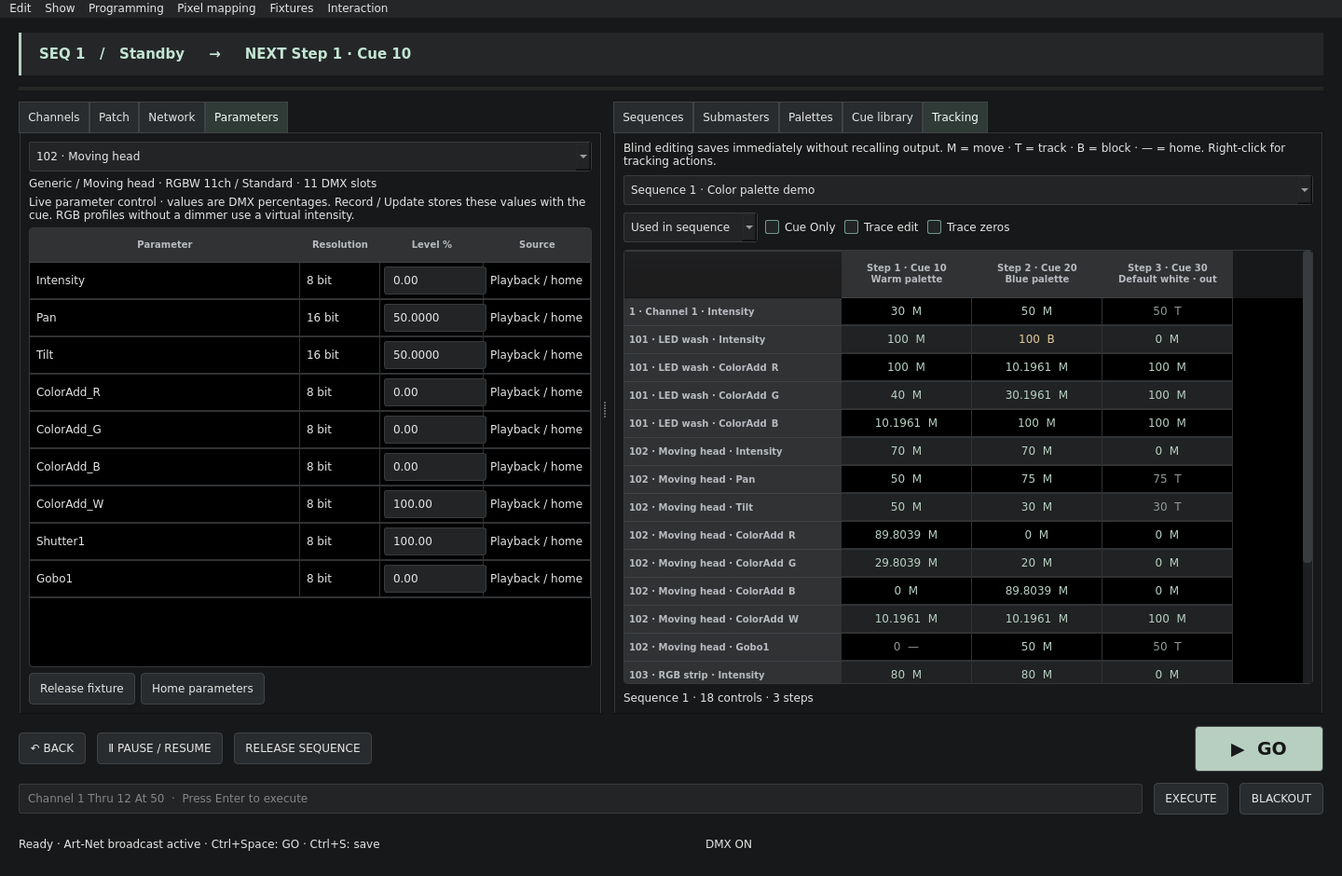
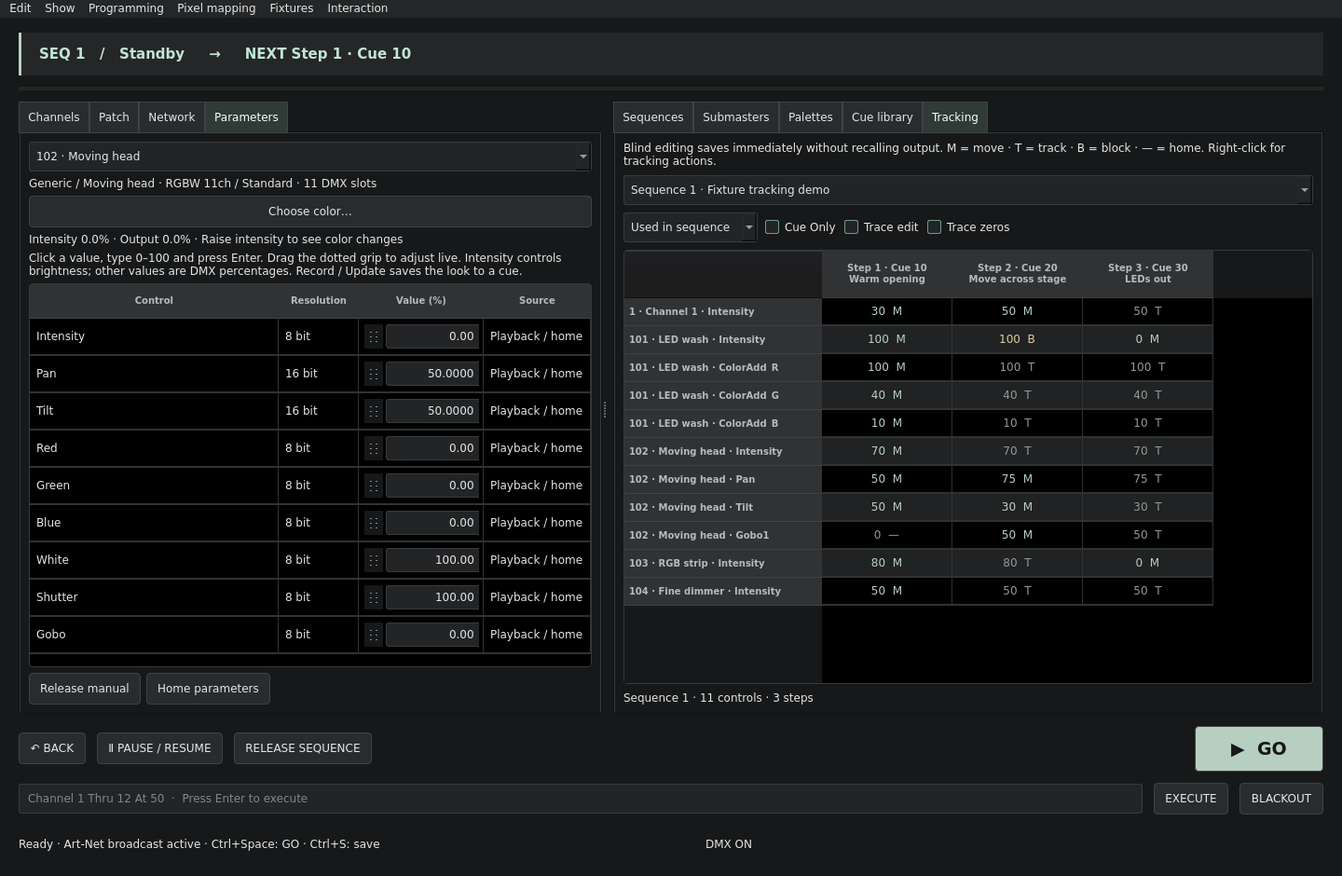
Fix Parameters text editing and add explicit value drag grips

diff --git a/src/parameterpanel.cpp b/src/parameterpanel.cpp
@@ -1,17 +1,66 @@
 #include "parameterpanel.h"
-#include "numberdrag.h"
 #include "fixturecolor.h"
 using namespace Flame;
+namespace {
+// Let the number field use native focus/text input. The grip alone handles dragging.
+class ParameterGrip : public QWidget {
+    QDoubleSpinBox *field;
+    bool pressed = false;
+    double previous = 0, accumulated = 0;
+    void adjust(QMouseEvent *event) {
+        const double factor = event->modifiers() & Qt::ShiftModifier ? 0.1 : event->modifiers() & Qt::ControlModifier ? 10. : 1.;
+        const double position = event->globalPosition().x();
+        accumulated = qBound(field->minimum(), accumulated + (position - previous) * field->singleStep() * factor, field->maximum());
+        previous = position; field->setValue(accumulated); event->accept();
+    }
+  public:
+    ParameterGrip(QDoubleSpinBox *field, QWidget *parent) : QWidget(parent), field(field) {
+        setFixedWidth(20); setCursor(Qt::SizeHorCursor); setFocusPolicy(Qt::NoFocus);
+        setAccessibleName("Drag parameter value");
+        setStatusTip("Drag sideways to adjust the value. Shift: fine; Ctrl/Command: coarse. Click the number to type, then press Enter.");
+    }
+  protected:
+    void paintEvent(QPaintEvent *) override {
+        QPainter painter(this); painter.setPen(Qt::NoPen); painter.setBrush(palette().color(QPalette::Text));
+        painter.setOpacity(0.55);
+        for (int x : {7, 13}) for (int dy : {-5, 0, 5}) painter.drawEllipse(QPointF(x, height() / 2. + dy), 1., 1.);
+    }
+    void mousePressEvent(QMouseEvent *event) override {
+        if (event->button() != Qt::LeftButton || !field->isEnabled() || field->isReadOnly()) { event->ignore(); return; }
+        field->interpretText(); field->clearFocus();
+        pressed = true; previous = event->globalPosition().x(); accumulated = field->value(); event->accept();
+    }
+    void mouseMoveEvent(QMouseEvent *event) override {
+        if (!pressed || !(event->buttons() & Qt::LeftButton)) { pressed = false; event->ignore(); return; }
+        adjust(event);
+    }
+    void mouseReleaseEvent(QMouseEvent *event) override {
+        if (event->button() != Qt::LeftButton || !pressed) { event->ignore(); return; }
+        adjust(event); pressed = false; event->accept();
+    }
+    bool event(QEvent *event) override {
+        if (event->type() == QEvent::UngrabMouse || event->type() == QEvent::WindowDeactivate || event->type() == QEvent::Hide) pressed = false;
+        return QWidget::event(event);
+    }
+};
+QString parameterName(const FixtureParameter &parameter) {
+    if (parameter.intensity) return parameter.cell.isEmpty() ? "Intensity" : "Cell intensity";
+    static const QMap<QString, QString> names{{"ColorAdd_R", "Red"}, {"ColorAdd_G", "Green"}, {"ColorAdd_B", "Blue"}, {"ColorAdd_W", "White"},
+        {"ColorAdd_WW", "Warm white"}, {"ColorAdd_CW", "Cool white"}, {"ColorAdd_A", "Amber"}, {"ColorAdd_UV", "UV"},
+        {"ColorSub_C", "Cyan"}, {"ColorSub_M", "Magenta"}, {"ColorSub_Y", "Yellow"}, {"Shutter1", "Shutter"}, {"Gobo1", "Gobo"}, {"Focus1", "Focus"}};
+    return names.value(parameter.attribute, parameter.attribute);
+}
+}
 ParameterPanel::ParameterPanel(Engine &e, std::function<void()> onLiveChange, QWidget *parent)
     : QWidget(parent), engine(e), onLiveChange(std::move(onLiveChange)) {
     auto layout = new QVBoxLayout(this); channel = new QComboBox; channel->setObjectName("parameterChannel"); layout->addWidget(channel);
-    description = new QLabel; description->setWordWrap(true); layout->addWidget(description);
+    description = new QLabel; description->setTextFormat(Qt::PlainText); description->setWordWrap(true); layout->addWidget(description);
     auto scope = new QHBoxLayout;
     cell = new QComboBox; cell->setObjectName("parameterCell"); scope->addWidget(cell, 1);
     color = new QPushButton("Choose color…"); color->setObjectName("parameterCellColor"); scope->addWidget(color); layout->addLayout(scope);
     cell->setStatusTip("Select the whole fixture, its master, or an individual numbered cell/group.");
     color->setStatusTip("Choose a color for the selected scope, preserving its intensity. Cancel restores previous values.");
-    masterLevel = new QLabel; masterLevel->setObjectName("parameterMasterLevel"); layout->addWidget(masterLevel);
+    masterLevel = new QLabel; masterLevel->setObjectName("parameterMasterLevel"); masterLevel->setTextFormat(Qt::PlainText); masterLevel->setWordWrap(true); layout->addWidget(masterLevel);
     connect(cell, &QComboBox::currentIndexChanged, this, [this] { populate(shown); });
     connect(color, &QPushButton::clicked, this, [this] {
         const QString part = cell->currentData().toString(); const auto controls = engine.colorControls(shown, part);
@@ -33,13 +82,16 @@ ParameterPanel::ParameterPanel(Engine &e, std::function<void()> onLiveChange, QW
         }
         this->onLiveChange(); refresh();
     });
-    auto note = new QLabel("Live parameter control · values are DMX percentages. Record / Update stores these values with the cue. RGB profiles without a dimmer use a virtual intensity."); note->setWordWrap(true); layout->addWidget(note);
-    table = new QTableWidget(0, 4); table->setObjectName("parameterTable"); table->setHorizontalHeaderLabels({"Parameter", "Resolution", "Level %", "Source"});
+    auto note = new QLabel("Click a value, type 0–100 and press Enter. Drag the dotted grip to adjust live. Intensity controls brightness; other values are DMX percentages. Record / Update saves the look to a cue."); note->setWordWrap(true); layout->addWidget(note);
+    table = new QTableWidget(0, 4); table->setObjectName("parameterTable"); table->setHorizontalHeaderLabels({"Control", "Resolution", "Value (%)", "Source"});
+    table->setEditTriggers(QAbstractItemView::NoEditTriggers); table->setSelectionBehavior(QAbstractItemView::SelectRows);
+    table->setStyleSheet("QWidget#parameterValueCell{background:transparent;} QDoubleSpinBox{padding:3px 6px;min-height:0px;} QDoubleSpinBox QLineEdit{padding:0px;margin:0px;border:0px;background:transparent;}");
     table->verticalHeader()->hide(); table->verticalHeader()->setDefaultSectionSize(40);
     table->horizontalHeader()->setSectionResizeMode(QHeaderView::ResizeToContents); table->horizontalHeader()->setSectionResizeMode(0, QHeaderView::Stretch);
     layout->addWidget(table, 1); auto actions = new QHBoxLayout;
-    auto release = new QPushButton("Release fixture"); auto home = new QPushButton("Home parameters"); actions->addWidget(release); actions->addWidget(home); actions->addStretch(); layout->addLayout(actions);
-    release->setStatusTip("Release this fixture's manual values, retaining captured controls."); home->setStatusTip("Set non-intensity parameters to their GDTF defaults in manual control.");
+    auto release = new QPushButton("Release manual"); auto home = new QPushButton("Home parameters"); actions->addWidget(release); actions->addWidget(home); actions->addStretch(); layout->addLayout(actions);
+    release->setObjectName("releaseFixtureParameters");
+    release->setStatusTip("Release this fixture's manual values, retaining captured controls."); home->setStatusTip("Restore color, position, beam and cell controls to home, keeping master intensity.");
     connect(channel, &QComboBox::currentIndexChanged, this, [this] { populate(channel->currentData().toInt()); });
     connect(release, &QPushButton::clicked, this, [this] {
         for (int key : engine.controlIds()) if (engine.channelForControl(key) == shown && !engine.captured.contains(key)) engine.manual.remove(key);
@@ -69,7 +121,7 @@ void ParameterPanel::populate(int id) {
         cell->setCurrentIndex(qMax(0, cell->findData(previous)));
     }
     cell->setVisible(!parts.isEmpty());
-    masterLevel->setVisible(!parts.isEmpty());
+    masterLevel->setVisible(true);
     const QString part = cell->currentData().toString(); color->setEnabled(engine.colorControls(id, part).available());
     table->setRowCount(0); QList<int> keys;
     if (part == "*" || part.isEmpty()) keys << id;
@@ -78,27 +130,48 @@ void ParameterPanel::populate(int id) {
     for (int key : keys) {
         int row = table->rowCount(); table->insertRow(row); QString resolution = "Virtual"; int decimals = 2;
         for (int i = 0; i < mode.parameters.size(); ++i) if (engine.parameterKey(id, i) == key) { resolution = mode.parameters[i].offsets.isEmpty() ? "Virtual" : QString::number(mode.parameters[i].offsets.size() * 8) + " bit"; decimals = qMax(2, int(mode.parameters[i].offsets.size()) * 2); }
-        QString text = "Intensity";
+        QString text = parts.isEmpty() ? "Intensity" : "Master intensity";
         if (key < 0) {
             const auto &parameter = mode.parameters[(-qint64(key) - 1) % 512];
-            text = (part == "*" && !parameter.cell.isEmpty() ? parameter.cell + " / " : QString()) + parameter.attribute;
+            text = (part == "*" && !parameter.cell.isEmpty() ? parameter.cell + " / " : QString()) + parameterName(parameter);
         }
         auto label = new QTableWidgetItem(text); label->setData(Qt::UserRole, key); label->setToolTip(engine.controlLabel(key)); table->setItem(row, 0, label);
         table->setItem(row, 1, new QTableWidgetItem(resolution)); table->setItem(row, 3, new QTableWidgetItem);
         for (int col : {0, 1, 3}) table->item(row, col)->setFlags(Qt::ItemIsEnabled | Qt::ItemIsSelectable);
-        auto value = new QDoubleSpinBox; value->setObjectName(QString("parameterLevel%1").arg(key)); value->setRange(0, 100); value->setDecimals(decimals); value->setSingleStep(0.1); value->setMinimumWidth(110);
-        enableNumberDrag(value); value->setStatusTip(engine.controlLabel(key) + " · drag horizontally, Shift for fine control, click to type"); table->setCellWidget(row, 2, value);
+        auto holder = new QWidget; holder->setObjectName("parameterValueCell");
+        auto valueLayout = new QHBoxLayout(holder); valueLayout->setContentsMargins(2, 2, 2, 2); valueLayout->setSpacing(3);
+        auto value = new QDoubleSpinBox;
+        // Console's global NumberDrag installer must leave these native editors alone.
+        value->setProperty("nativeNumberEditing", true); value->setButtonSymbols(QAbstractSpinBox::NoButtons);
+        value->setObjectName(QString("parameterLevel%1").arg(key)); value->setRange(0, 100); value->setDecimals(decimals); value->setSingleStep(0.1); value->setMinimumWidth(106);
+        value->setKeyboardTracking(false); value->setFocusPolicy(Qt::StrongFocus); value->setAlignment(Qt::AlignRight);
+        value->setAccessibleName(engine.controlLabel(key) + " value, percent");
+        value->setStatusTip(engine.controlLabel(key) + " · click to type 0–100, then press Enter. Drag the dotted grip to adjust live.");
+        auto grip = new ParameterGrip(value, holder); grip->setObjectName(QString("parameterGrip%1").arg(key));
+        valueLayout->addWidget(grip); valueLayout->addWidget(value, 1); table->setCellWidget(row, 2, holder);
         connect(value, &QDoubleSpinBox::valueChanged, this, [this, key](double level) { engine.manual[key] = {level, 0}; this->onLiveChange(); refresh(); });
     }
     refresh();
 }
 void ParameterPanel::refresh() {
     if (!isVisible()) return;
-    auto values = engine.output(false, false);
-    masterLevel->setText(QString("Fixture master: %1% · Cell intensities are relative").arg(values.value(shown), 0, 'f', 1));
+    auto values = engine.output(false, false, false);
+    const auto output = engine.output(); QStringList states;
+    if (engine.parked.contains(shown)) states << "Parked";
+    else {
+        if (engine.blackout) states << "Blackout";
+        if (engine.master < 1) states << QString("Grand master %1%").arg(engine.master * 100., 0, 'f', 0);
+        for (const auto &sub : engine.submasters) if (sub.mode == Submaster::Mode::Inhibitive && sub.level < 1 && sub.values.contains(shown))
+            states << QString("Inhibited by Sub %1").arg(sub.number);
+    }
+    if (values.value(shown) == 0 && engine.colorControls(shown).available()) states << "Raise intensity to see color changes";
+    if (!engine.fixtureCells(shown).isEmpty()) states << "Cell intensity is relative to the master";
+    masterLevel->setText(QString("Intensity %1% · Output %2%%3").arg(values.value(shown), 0, 'f', 1).arg(output.value(shown), 0, 'f', 1)
+        .arg(states.isEmpty() ? QString() : " · " + states.join(" · ")));
     for (int row = 0; row < table->rowCount(); ++row) {
-        int key = table->item(row, 0)->data(Qt::UserRole).toInt(); auto spin = qobject_cast<QDoubleSpinBox *>(table->cellWidget(row, 2));
-        if (!spin->hasFocus()) { QSignalBlocker block(spin); spin->setValue(values.value(key, engine.controlDefault(key))); }
+        int key = table->item(row, 0)->data(Qt::UserRole).toInt(); auto spin = table->cellWidget(row, 2)->findChild<QDoubleSpinBox *>();
+        const auto edit = spin->findChild<QLineEdit *>();
+        if (!spin->hasFocus() && (!edit || !edit->hasFocus())) { QSignalBlocker block(spin); spin->setValue(values.value(key, engine.controlDefault(key))); }
         const auto reference = engine.recordedValue(key, values);
         QString source = engine.manual.contains(key) ? "Manual" : "Playback / home";
         if (reference.colorPalette > 0) source = QString("CP %1 · ").arg(reference.colorPalette) + source;

diff --git a/tests/ui_test.cpp b/tests/ui_test.cpp
@@ -30,6 +30,86 @@ class UiTests : public QObject {
         table->customContextMenuRequested(point);
     }
   private slots:
+    void parameterIntensityValueSurvivesInhibitorsAndShowsOutputState() {
+        Engine engine; Submaster sub; sub.mode = Submaster::Mode::Inhibitive; sub.values[1] = 100; sub.level = 0;
+        engine.submasters << sub;
+        ParameterPanel *livePanel = nullptr;
+        ParameterPanel panel(engine, [&] { if (livePanel) livePanel->refresh(); }); livePanel = &panel; panel.show(); panel.refresh();
+        auto intensity = panel.findChild<QDoubleSpinBox *>("parameterLevel1"); QVERIFY(intensity);
+        intensity->clearFocus(); intensity->setValue(75); panel.refresh();
+        QCOMPARE(engine.manual[1].level, 75.); QCOMPARE(engine.output().value(1), 0.);
+        QCOMPARE(intensity->value(), 75.); // The editable value must not be replaced by inhibited output.
+        auto status = panel.findChild<QLabel *>("parameterMasterLevel"); QVERIFY(status->isVisible());
+        QVERIFY(status->text().contains("75.0%")); QVERIFY(status->text().contains("0.0%"));
+        QVERIFY(status->text().contains("Inhibited"));
+        engine.submasters[0].level = 1; engine.master = 0.5; panel.refresh();
+        QCOMPARE(intensity->value(), 75.); QVERIFY(status->text().contains("37.5%"));
+        engine.blackout = true; panel.refresh(); QVERIFY(status->text().contains("Blackout"));
+        engine.parked[1] = 42; panel.refresh(); QVERIFY(status->text().contains("Parked")); QVERIFY(status->text().contains("42.0%"));
+        QCOMPARE(intensity->value(), 75.);
+    }
+    void parameterValuesAcceptTypingAndDraggingDuringRefresh() {
+        Engine engine; engine.fixtures[1] = {"moving-rgbw", 0}; engine.patch[1] = 513;
+        Console theme({}, false); ParameterPanel *livePanel = nullptr;
+        ParameterPanel panel(engine, [&] { if (livePanel) livePanel->refresh(); }); livePanel = &panel;
+        panel.setStyleSheet(theme.styleSheet()); panel.resize(620, 650); panel.show();
+        QApplication::setActiveWindow(&panel); QCoreApplication::processEvents();
+        QTimer updates; connect(&updates, &QTimer::timeout, &panel, &ParameterPanel::refresh); updates.start(10);
+        const int pan = engine.parameterKey(1, 0);
+        auto field = panel.findChild<QDoubleSpinBox *>(QString("parameterLevel%1").arg(pan)); QVERIFY(field);
+        auto edit = field->findChild<QLineEdit *>(); QVERIFY(edit);
+        QStyleOptionFrame option; option.initFrom(edit);
+        const auto contents = edit->style()->subElementRect(QStyle::SE_LineEditContents, &option, edit);
+        QVERIFY2(contents.height() >= edit->fontMetrics().height(), qPrintable(QString("Text height %1, available %2 inside %3px row").arg(edit->fontMetrics().height()).arg(contents.height()).arg(field->height())));
+        QTest::mouseClick(field, Qt::LeftButton, Qt::NoModifier, QPoint(2, field->height() / 2));
+        QVERIFY(field->hasFocus() || edit->hasFocus());
+        QTest::keySequence(edit, QKeySequence::SelectAll); QTest::keyClicks(edit, "12."); QTest::qWait(40);
+        QVERIFY(edit->text().startsWith("12.")); QTest::keyClicks(edit, "75"); QTest::keyClick(edit, Qt::Key_Return);
+        QCOMPARE(field->value(), 12.75); QCOMPARE(engine.manual[pan].level, 12.75);
+        panel.findChild<QComboBox *>("parameterChannel")->setFocus(); field->clearFocus();
+        auto grip = panel.findChild<QWidget *>(QString("parameterGrip%1").arg(pan)); QVERIFY(grip);
+        QPoint start = grip->rect().center(); QTest::mousePress(grip, Qt::LeftButton, Qt::NoModifier, start);
+        for (int dx : {5, 25}) {
+            auto point = start + QPoint(dx, 0);
+            QMouseEvent move(QEvent::MouseMove, point, grip->mapToGlobal(point), Qt::NoButton, Qt::LeftButton, Qt::NoModifier);
+            QApplication::sendEvent(grip, &move); QTest::qWait(20);
+        }
+        QTest::mouseRelease(grip, Qt::LeftButton, Qt::NoModifier, start + QPoint(25, 0));
+        QCOMPARE(engine.manual[pan].level, 15.25); QCOMPARE(field->value(), 15.25);
+        engine.manual[1] = {100, 0}; const auto frame = engine.dmxFrames().value(1);
+        QCOMPARE((quint8(frame[0]) << 8) | quint8(frame[1]), qRound(15.25 * 65535. / 100.));
+        QTest::mousePress(grip, Qt::LeftButton, Qt::NoModifier, start);
+        QEvent lost(QEvent::UngrabMouse); QApplication::sendEvent(grip, &lost);
+        const auto after = start + QPoint(50, 0);
+        QMouseEvent hover(QEvent::MouseMove, after, grip->mapToGlobal(after), Qt::NoButton, Qt::NoButton, Qt::NoModifier);
+        QApplication::sendEvent(grip, &hover); QCOMPARE(engine.manual[pan].level, 15.25);
+        QTest::mouseRelease(grip, Qt::LeftButton, Qt::NoModifier, after);
+    }
+    void parameterFieldsReceiveWindowMouseAndKeyboardEvents_data() {
+        QTest::addColumn<QSize>("windowSize"); QTest::newRow("desktop") << QSize(1440, 940); QTest::newRow("compact") << QSize(1100, 720);
+    }
+    void parameterFieldsReceiveWindowMouseAndKeyboardEvents() {
+        QFETCH(QSize, windowSize);
+        Engine engine; engine.fixtures[1] = {"moving-rgbw", 0}; engine.patch[1] = 513;
+        QTemporaryFile file; QVERIFY(file.open()); file.write(QJsonDocument(engine.json()).toJson()); file.flush();
+        Console window(file.fileName(), false); window.resize(windowSize); window.show();
+        window.findChild<QTabWidget *>("channelTabs")->setCurrentIndex(3);
+        QApplication::setActiveWindow(&window); QCoreApplication::processEvents();
+        const int key = engine.parameterKey(1, 0);
+        auto field = window.findChild<QDoubleSpinBox *>(QString("parameterLevel%1").arg(key)); QVERIFY(field);
+        auto edit = field->findChild<QLineEdit *>(); QVERIFY(edit);
+        const QPoint point = edit->mapTo(&window, edit->rect().center());
+        QTest::mouseClick(window.windowHandle(), Qt::LeftButton, Qt::NoModifier, point);
+        QVERIFY2(field->hasFocus() || edit->hasFocus(), qPrintable(QString("Hit: %1; focused: %2").arg(QApplication::widgetAt(window.mapToGlobal(point)) ? QApplication::widgetAt(window.mapToGlobal(point))->metaObject()->className() : "none", QApplication::focusWidget() ? QApplication::focusWidget()->metaObject()->className() : "none")));
+        QTest::keySequence(window.windowHandle(), QKeySequence::SelectAll); QTest::keyClicks(QApplication::focusWidget(), "37.25");
+        QTest::keyClick(window.windowHandle(), Qt::Key_Return); QTest::qWait(60); QCOMPARE(field->value(), 37.25);
+        auto grip = window.findChild<QWidget *>(QString("parameterGrip%1").arg(key)); QVERIFY(grip);
+        const auto start = grip->mapTo(&window, grip->rect().center());
+        QTest::mousePress(window.windowHandle(), Qt::LeftButton, Qt::NoModifier, start);
+        QTest::mouseMove(window.windowHandle(), start + QPoint(20, 0));
+        QTest::mouseRelease(window.windowHandle(), Qt::LeftButton, Qt::NoModifier, start + QPoint(20, 0));
+        QTest::qWait(60); QCOMPARE(field->value(), 39.25);
+    }
     void fixtureSearchScalesAndKeepsSelectionOnCancel() {
         Engine engine;
         for (int i = 0; i < 1000; ++i) {
@@ -94,7 +174,7 @@ class UiTests : public QObject {
         auto scope = panel.findChild<QComboBox *>("parameterCell");
         auto table = panel.findChild<QTableWidget *>("parameterTable");
         scope->setCurrentIndex(scope->findData(parts[0])); QCOMPARE(table->rowCount(), 5);
-        QCOMPARE(table->item(0, 0)->text(), QString("Dimmer"));
+        QCOMPARE(table->item(0, 0)->text(), QString("Cell intensity"));
         auto first = engine.colorControls(1, parts[0]), second = engine.colorControls(1, parts[1]);
         auto choose = [&](QColor color, bool accept) {
             QTimer::singleShot(0, &panel, [&] {

diff --git a/src/numberdrag.h b/src/numberdrag.h
@@ -101,6 +101,7 @@ private:
 };
 
 inline void enableNumberDrag(QAbstractSpinBox *spin) {
+    if (spin->property("nativeNumberEditing").toBool()) return;
     if (spin->property("numberDragInstalled").toBool()) return;
     if (auto edit = spin->findChild<QLineEdit *>()) {
         new NumberDrag(spin, edit);

diff --git a/docs/PARAMETERS.md b/docs/PARAMETERS.md
@@ -1,0 +1,37 @@
+# Parameters: edit a fixture's live controls
+
+Choose a channel at the top of **Parameters**. For a multicell fixture, choose
+the master, all cells or one cell below it.
+
+- **Intensity / Master intensity** controls the fixture's overall brightness.
+  Raise it above zero to see colour changes. **Cell intensity** is relative to
+  the fixture master: a cell at 50% with its master at 50% gives 25% intensity.
+- **Value (%)** is editable. Click the number, type a value from 0 to 100 and
+  press **Enter** or **Tab**. The field keeps your unfinished input during live
+  refresh. Arrow keys adjust the value using the keyboard.
+- **Drag the dotted grip** beside a number to change it live. Shift gives fine
+  adjustment; Ctrl/Command gives coarse adjustment. Dragging inside the number
+  selects text, as in an ordinary text field.
+- **Red / Green / Blue / White, Pan, Tilt, Shutter…** are fixture controls.
+  Their numeric values are normalized DMX percentages, rather than degrees or
+  calibrated physical units. **Choose color…** offers visual colour selection
+  for a supported RGB/RGBW/CMY scope without changing its intensity.
+- **Source** shows Manual or Playback / home, plus colour-palette references
+  where present. Record / Update uses the console's usual cue-recording behavior;
+  live parameter edits do not automatically rewrite a stored cue.
+
+The status line shows **Intensity** (the control value) and **Output** (the
+resulting channel intensity). For example, an intensity of 75% and a grand master
+at 50% give 37.5% output. An inhibitive submaster at Out gives zero output while
+the editable intensity stays at 75%. Active Blackout, Park and inhibition are
+identified in the status line. Park overrides the resulting output; editing the
+underlying control does not change the parked value.
+
+**Release manual** returns this fixture to playback/home, preserving captured
+controls. **Home parameters** restores colour, position, beam and cell controls
+to their home values while retaining the fixture's master intensity.
+
+Version 0.12.1 separates native text entry from dragging, prevents table editors
+from intercepting input, and fixes editable intensity being replaced by inhibited
+output. Input tests cover real window mouse targeting, decimal entry, live
+refresh, dragging, compact windows, 200% scaling and Qt's Windows style.

diff --git a/docs/FIXTURES-AND-TRACKING.md b/docs/FIXTURES-AND-TRACKING.md
@@ -29,7 +29,9 @@ Changing start addresses keeps parameter identities and is supported with existi
 
 ## Program fixture parameters
 
-Open **Parameters**, then select the fixture. Double-clicking a dimmer tile also opens Parameters. The panel exposes intensity and each DMX parameter, its resolution and manual status. Drag a numeric field sideways, or click to type. Home parameters loads non-intensity defaults; Release fixture clears its manual values except captured controls.
+Open **Parameters**, then select the fixture. Double-clicking a dimmer tile also opens Parameters. **Value (%)** is editable: click the number, type 0–100 and press Enter or Tab to commit. Drag the dotted grip beside the number for live adjustment; Shift gives finer control and Ctrl/Command coarser control. The number itself uses normal text editing. See the [Parameters guide](PARAMETERS.md).
+
+The panel shows intensity and each DMX control, its resolution and manual status. **Intensity** controls the whole fixture's brightness; multicell fixtures also expose relative **Cell intensity** controls. The status line separates the editable intensity from its resulting output and identifies active inhibition, grand master, Blackout or Park. An inhibitive submaster no longer resets an editable value to zero. Home parameters restores color, position, beam and cell defaults while keeping master intensity; Release manual clears this fixture's manual values except captured controls.
 
 Record stores the unmastered look, including fixture parameters and their defaults; Record Only stores manual controls. Update, shared-cue content editing, local tracking edits, fades and show files preserve parameter data. Grand master and blackout affect intensity, leaving position/color/beam values unchanged. RGB/RGBW profiles without a physical dimmer use the channel intensity to scale additive colors. Submasters support additive HTP and inhibitive intensity with timed bumps. Capture, Park, Home and selected-channel Release include the fixture's parameters; Park remains excluded from recordings.
 

diff --git a/docs/CODE-REVIEW-0.12.md b/docs/CODE-REVIEW-0.12.md
@@ -1,5 +1,24 @@
 # Code and UX review: OFL fixtures and searchable fixture selection
 
+## 0.12.1: Parameters input follow-up
+
+- Parameter text fields now use native focus and editing, with a separate dotted
+  drag grip. Table editing cannot open a competing editor over the field, and
+  the global NumberDrag filter explicitly leaves these editors alone.
+- Enter/Tab commits typed values; active text survives live refresh. Mouse
+  targeting is exercised through the application's actual window at desktop and
+  compact sizes, in addition to field-level typing, drag and DMX-output checks.
+- Editable intensity uses values before inhibition. A reproduced regression had
+  reset the editor to zero when an inhibitive submaster was at Out. The status
+  line now separates control intensity and output and names active output limits.
+- Dragging is cancelled on lost mouse grab or window deactivation, preventing
+  later hover events from changing levels. The panel uses readable names for
+  common colour controls and explains master/cell intensity.
+- Tests cover normal DPI, 200% scaling and Qt Windows style. The illustrated
+  fixture/parameters preview was regenerated and visually inspected.
+
+The sections below record the original 0.12.0 fixture-library review.
+
 Scope: OFL JSON parsing/export, profile persistence/identity, fixture chooser and
 patch import/export integration. This is a focused review of this change, not a
 claim of full Eos parity or a physical-rig qualification.

diff --git a/README.md b/README.md
@@ -1,7 +1,7 @@
 # Cold Flame
 
 Desktop lighting console written in C++17 / Qt 6 for macOS, Windows and Linux.
-**Development version 0.12.0: full Eos coverage is a goal, not an existing capability.**
+**Development version 0.12.1: full Eos coverage is a goal, not an existing capability.**
 
 ![Interface](cold-flame-preview.png)
 
